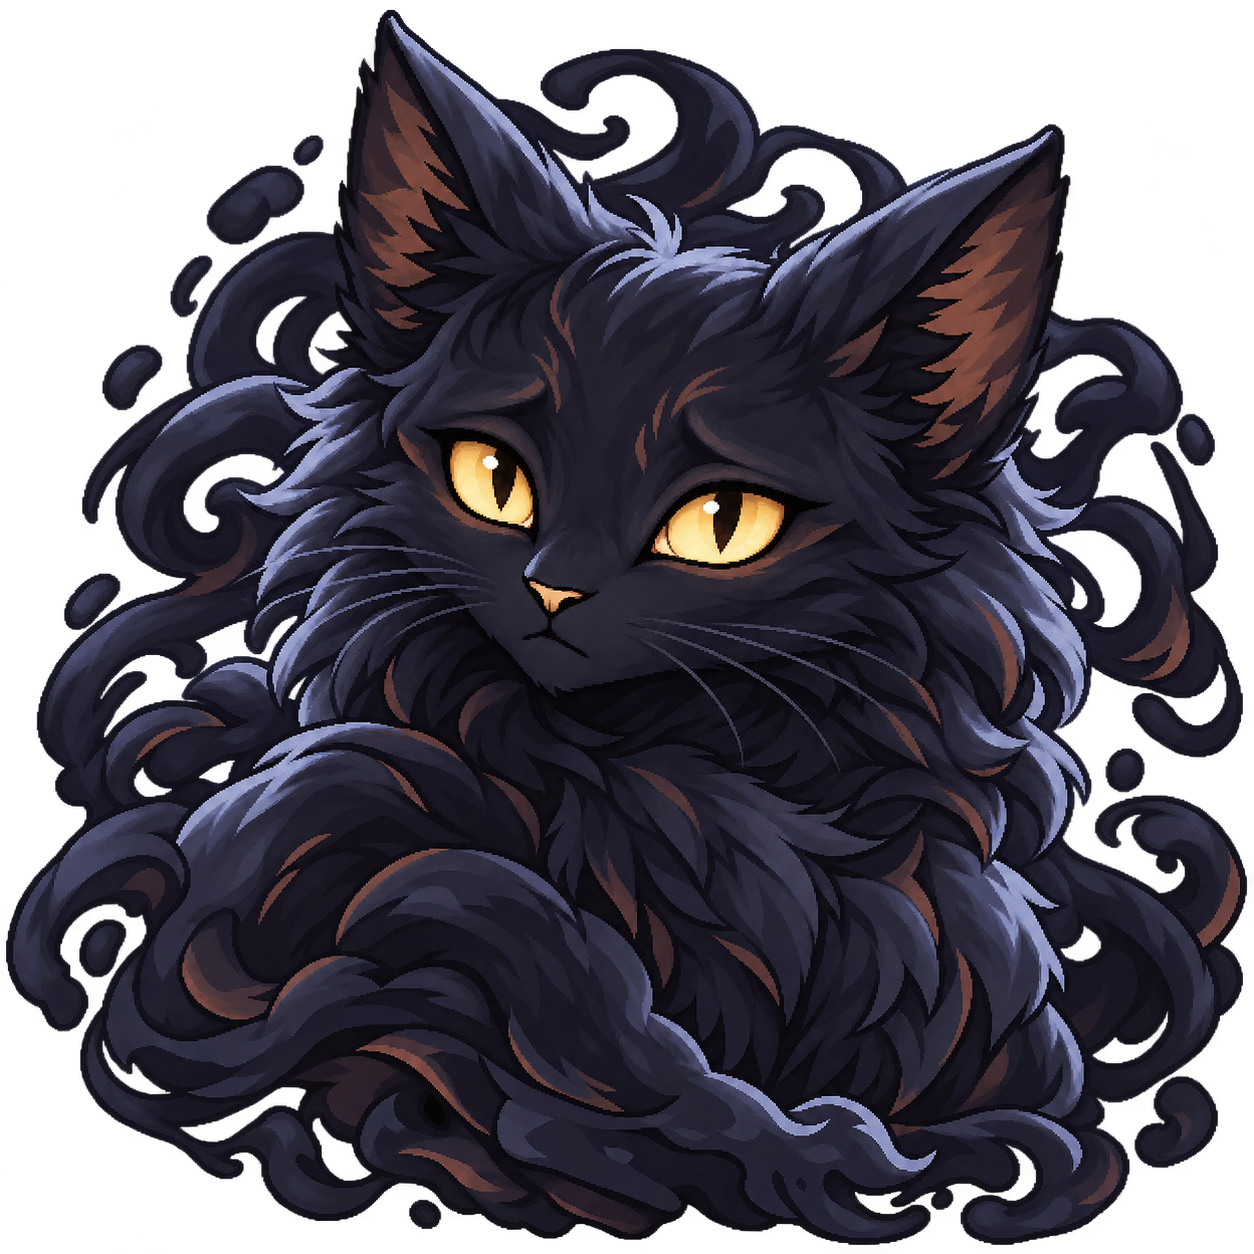
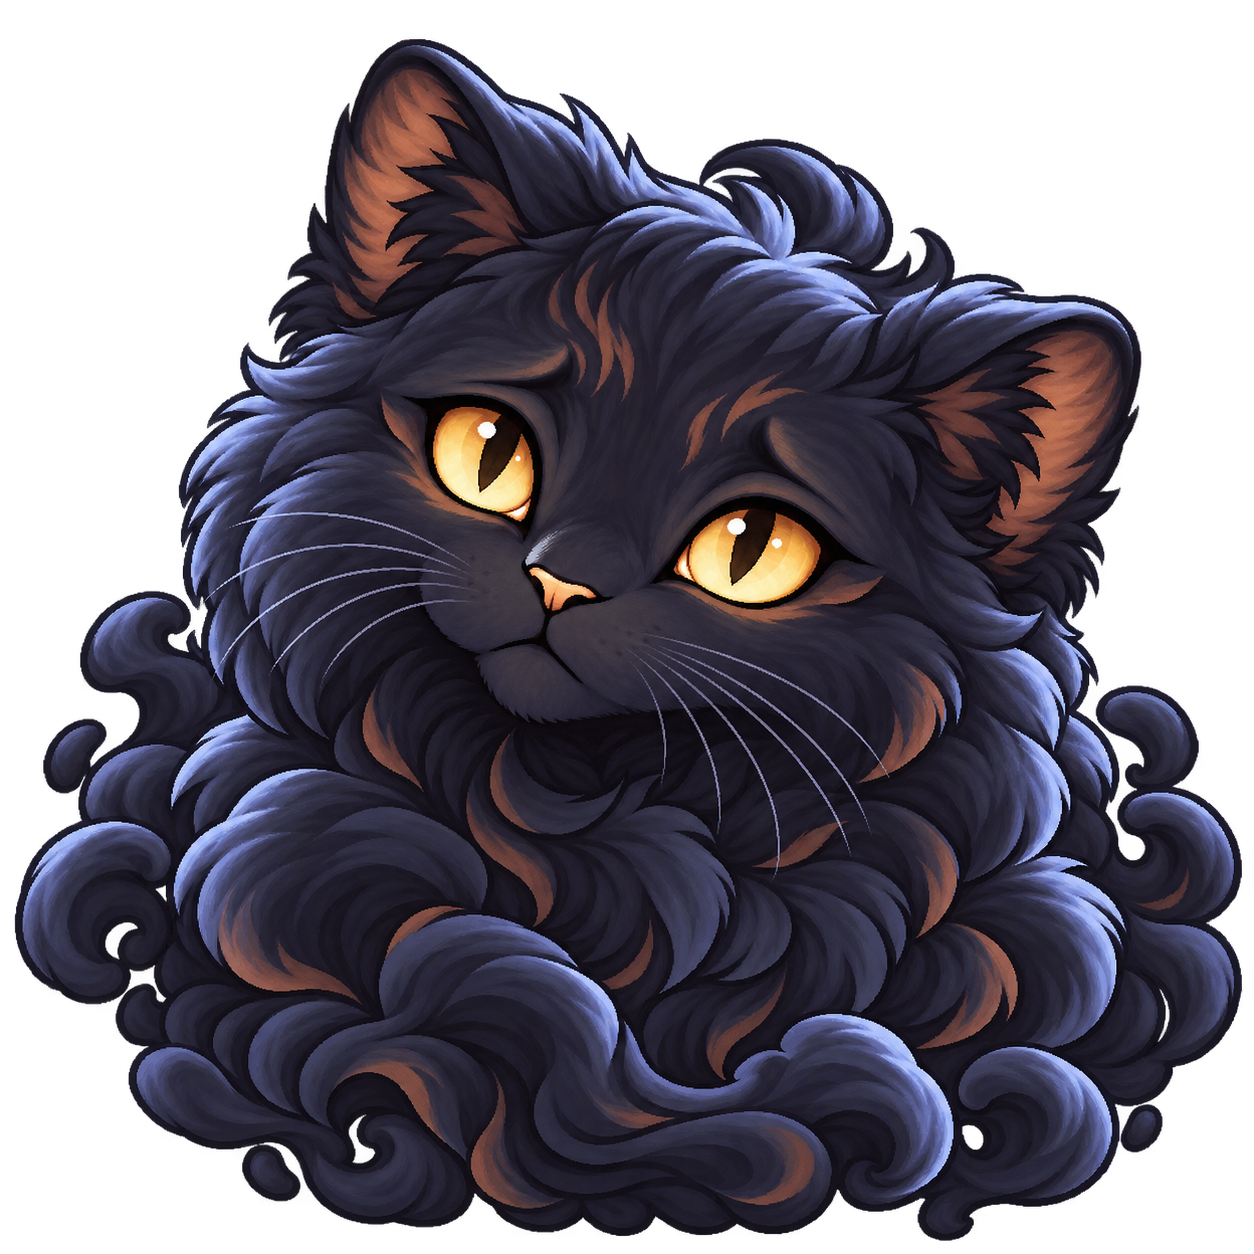
assets: use selected round-faced cat dialogue portrait

diff --git a/docs/猫对话立绘_20261029.md b/docs/猫对话立绘_20261029.md
@@ -16,3 +16,7 @@ Create a replacement dialogue portrait for this same supernatural black cat in a
 用户要求不要狡猾或邪恶。最终采用闭嘴、自然圆润杏眼、放松眉眼与略微委屈警惕的神态。下面提示词为内置image_gen对首版的编辑，输出替换正式素材。
 
 Edit this game dialogue portrait. Preserve the same black supernatural cat, golden eyes, charcoal blue-grey fur and readable cool grey rim lighting, smoky lower body, pixel-art inspired painted style, square head-and-chest composition, large readable face and genuine transparent background. Change ONLY the expression and temperament: a quiet, gentle, slightly wary and lonely cat that has been abandoned and wants help. Remove the sly grin completely, mouth closed with a small natural neutral cat mouth, no visible teeth or fangs. Soften the eyes to natural rounded almond shapes, relaxed eyelids, no sharply down-sloping angry brows; subtly sad and cautious, looking toward the player with trust and vulnerability. Ears relaxed upright, not menacing. Make the cheek fur and smoke flowing gently rather than aggressive spikes. Keep it recognizable as the same character, mysterious but neither evil nor cunning. No accessories, no text, no backdrop, no sticker outline. Keep the bright readable face and defined contours for use at small dialogue size.
+
+## 2026-10-30 用户最终选图
+
+用户上传并选定圆脸蓬松版作为正式对话立绘。直接使用上传PNG（1254×1254、RGBA透明背景）替换 art/portrait/library_cat_dialogue.png，未重新生成或改变画面。剧情引用及地图猫不变。实机截图更新为 docs/screenshots/cat_dialogue_revision.png。

diff --git a/docs/交接须知.md b/docs/交接须知.md
@@ -7,6 +7,8 @@
 ---
 
 ## 一、状态快照（2026-10-26 更新，每次收工改这一块）
+- **猫立绘最终选图接入（2026-10-30）**：用户上传选中圆脸蓬松版，直接替换art/portrait/library_cat_dialogue.png，1254×1254 RGBA透明背景，未重新生成或改画；18处剧情引用及地图猫保持，右下立绘实机完整可见，截图更新。资源重导入、数据14/32/7/11、GPU专项16/16、游戏6262/6262、真窗口烟测通过。此前角色定名7b8d510仍在本地main，本次一并尝试同步；开工导出配置与.uid/.import不纳入。
+
 - **三人最终定名（2026-10-29，覆盖此前李淳罡/方源/白凝冰）**：用户指定A=陈遇、B=闻砚、C=裴予安；并确认B现有剧情无揭名台词，本轮不补写，因此玩家看到的B说话人、交互标签统一“神秘人”，闻砚仅作正式设定名，后续揭名再显示。A/C对白、旁白、选项与追逐提示同步改名；内部a/b/c、立绘键、flag、昵称功能保持。逐份JSON结构对照确认只有名称替换，地图仅改标签。游戏6262/6262、数据14/32/7/11、真窗口烟测通过；开工导出配置及生成的.uid/.import未纳入。
 
 - **命名更新并行合并验收（2026-10-29）**：本轮修复提交d859b28推送前发现远端d68dfdc，保留队友NPC定名/昵称功能并合并；剧情冲突使用“白凝冰追来了，快逃回教学楼！\n到门口按E或空格。”短提示，猫新版立绘引用保留。合并后全量6262/6262、非即时GPU日记/两错误路线End5重试入馆16/16、数据14/32/7/11、真窗口烟测通过，截图再次确认。
